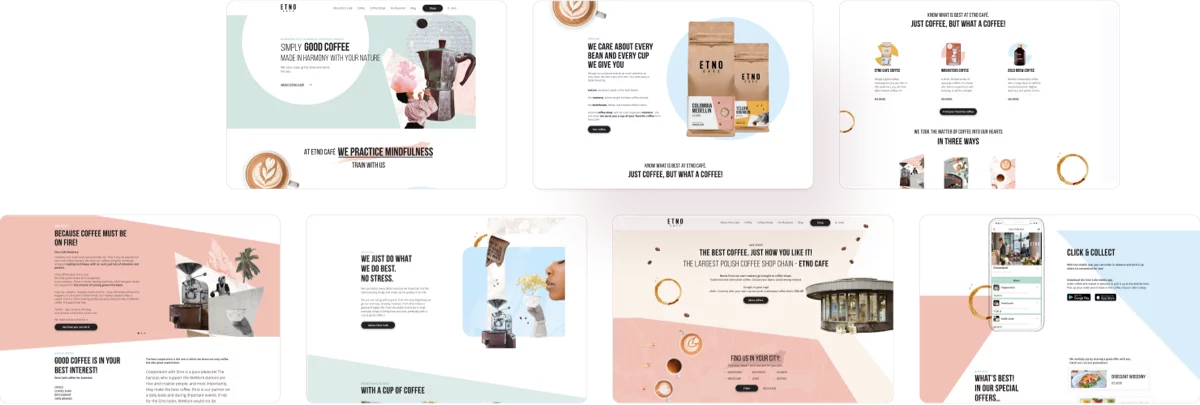
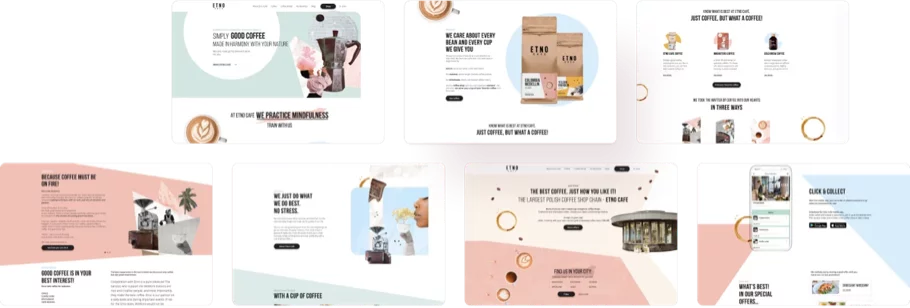
add bgl about, reduce etno separator size

diff --git a/_portfolio/bgl.html b/_portfolio/bgl.html
@@ -16,9 +16,30 @@ hero-text: >-
   built via Jamstack
 hero-img: /assets/images/portfolio-cases/bgl/top.webp
 hero-alt: BGL screens
+about-step: About
+about-header: Let’s meet Baugenossenschaft Letten
+about-column-left: >-
+  Baugenossenschaft Letten (BGL) is a&nbsp;Zurich housing cooperative. It comprises of
+  607&nbsp;apartments, spread over 6&nbsp;settlements in the city of Zurich. 
+  <strong>It was founded on February&nbsp;16, 1922</strong>, as a&nbsp;building cooperative
+  by state, city and private employees of Zurich and renamed in&nbsp;1973. The current name
+  refers to the district of Letten, where the first settlement of the cooperative was built.
+about-column-right: >-
+  The company plays a&nbsp;very important role in bringing the local community together
+  and makes every effort to ensure that each tenant feels at&nbsp;home. The website serves
+  not only as an&nbsp;image function, but also provides residents with the most important
+  information about BGL, its mission, the residential development and the people behind
+  the building cooperative.
+separator-mobile: /assets/images/portfolio-cases/bgl/separator-mobile.webp
+separator-desktop: /assets/images/portfolio-cases/bgl/separator.webp
+separator-alt: BGL screens
 
 ---
 
 <header class="l-full">
   {% include portfolio-cases/template/hero.html %}
 </header>
+
+<div class="l-center l-center--small">
+  {% include portfolio-cases/template/about.html %}
+</div>

diff --git a/_sass/new-styles/modules/portfolio-cases/template/_about.scss b/_sass/new-styles/modules/portfolio-cases/template/_about.scss
@@ -58,6 +58,7 @@
     width: 910px;
     margin: 65px 0 45px;
     padding-bottom: 306px;
+    background-color: $color-accent-yellow;
     
     &-img {
       position: absolute;
@@ -67,8 +68,8 @@
       width: 100%;
     }
 
-    &--etno {
-      background-color: $color-accent-yellow;
+    &--bgl {
+      background-color: $color-geometric-blue-accent;
     }
   }
 
@@ -213,6 +214,10 @@
         width: 200vw;
         height: 100%;
         background-color: $color-accent-yellow;
+      }
+
+      &--bgl::after {
+        background-color: $color-geometric-blue-accent;
       }
     }
   }

diff --git a/_includes/portfolio-cases/template/about.html b/_includes/portfolio-cases/template/about.html
@@ -16,7 +16,7 @@
     </div>
     <picture class="case-about__separator case-about__separator--{{ page.modifier }}">
       <source
-        media="(max-width: 811px)"
+        media="(max-width: 576px)"
         srcset="{{ page.separator-mobile }}"
         alt="{{ page.separator-alt }}"
       />

diff --git a/_includes/portfolio-cases/bgl/styles.scss b/_includes/portfolio-cases/bgl/styles.scss
@@ -17,3 +17,4 @@
 @import "new-styles/modules/portfolio-cases/main";
 
 @import "new-styles/modules/portfolio-cases/template/hero";
+@import "new-styles/modules/portfolio-cases/template/about";
